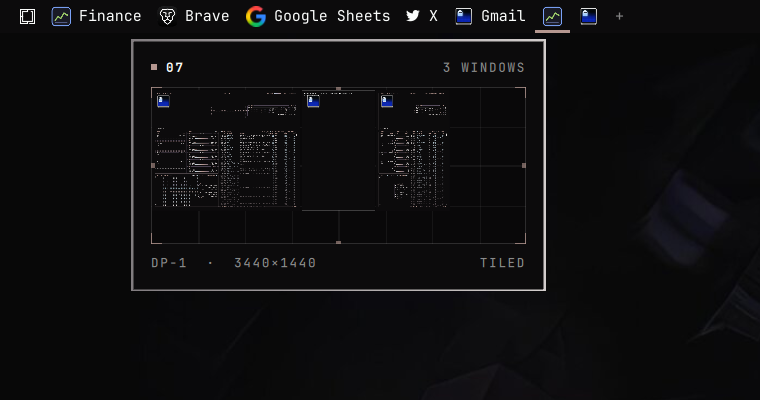
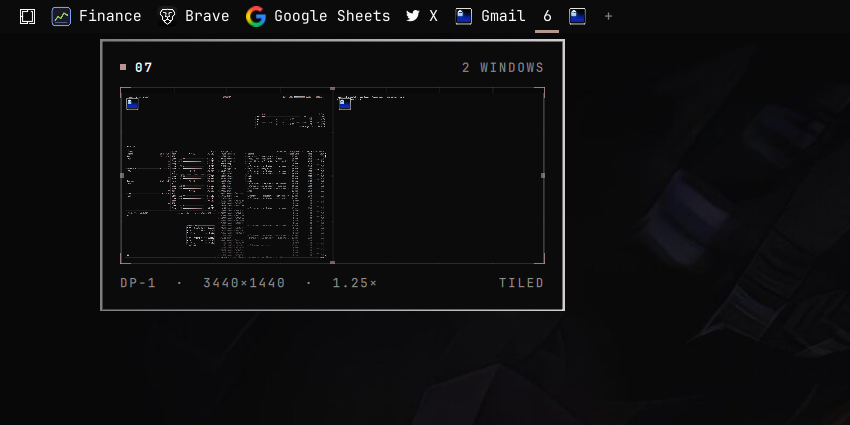
Release v3.2.1: stop startup shell crashes, fix preview geometry on scaled displays
3.2.0 read each toplevel's `workspace` object inside QML bindings. During
startup Quickshell parses `hyprctl clients` before `hyprctl workspaces` has
answered and hands toplevels placeholder workspaces; observing those from
bindings coincided with two segfaults inside Qt::endPropertyUpdateGroup.
The plugin now reads only the IPC snapshot and asks Quickshell for a
refresh, debounced to one request per burst of window events. Six
consecutive restarts ran clean afterwards.

Hyprland reports monitors in physical pixels but windows in logical pixels,
so at 1.25x every preview window was a fifth too small with a padded strip
along the right and bottom. Previews now scale against the logical size
(Logic.logicalMonitor, tested), handle rotated outputs, and note the scale.

diff --git a/Workspaces.qml b/Workspaces.qml
@@ -401,20 +401,24 @@ Panel {
   // owns multiple windows. Use Quickshell's complete toplevel registry and
   // filter by each toplevel's workspace instead.
   //
-  // A window opened after the shell started has a tracked `workspace`
-  // property straight away, but its `lastIpcObject` is an empty stub until
-  // Quickshell next runs `hyprctl clients`. Prefer the live property and only
-  // fall back to the IPC snapshot.
+  // Read only the IPC snapshot here. A window opened after the shell started
+  // has an empty `lastIpcObject` until Quickshell next runs `hyprctl
+  // clients`, which refreshToplevels() below requests on every window event.
+  //
+  // Do NOT read `toplevel.workspace` in bindings. During startup Quickshell
+  // parses `j/clients` before `j/workspaces` has answered and hands each
+  // toplevel a placeholder workspace ("requested before creation, early init
+  // with id -1"); bindings observing those objects were the common factor in
+  // two shell segfaults inside Qt::endPropertyUpdateGroup on 2026-09-16.
   function toplevelWorkspaceId(toplevel) {
-    if (toplevel.workspace && toplevel.workspace.id !== undefined) return Number(toplevel.workspace.id)
     var ipc = toplevel.lastIpcObject
     return ipc && ipc.workspace ? Number(ipc.workspace.id) : 0
   }
 
   function toplevelAddress(toplevel) {
-    if (toplevel.address) return String(toplevel.address)
     var ipc = toplevel.lastIpcObject
-    return ipc && ipc.address ? String(ipc.address) : ""
+    if (ipc && ipc.address) return String(ipc.address)
+    return toplevel.address ? String(toplevel.address) : ""
   }
 
   function toplevelsForWorkspace(id) {
@@ -426,11 +430,16 @@ Panel {
     return out
   }
 
-  // Geometry, class, and title only arrive with the IPC snapshot, so ask for
-  // one whenever a window appears, moves, or leaves. Cheap: one `hyprctl
-  // clients` per event, and Quickshell coalesces the result.
-  function refreshToplevels() {
-    if (typeof Hyprland.refreshToplevels === "function") Hyprland.refreshToplevels()
+  // Workspace, geometry, class, and title only arrive with the IPC snapshot,
+  // so ask for one whenever a window appears, moves, or leaves. Debounced so
+  // a burst of events costs one `hyprctl clients`, and so the request never
+  // runs synchronously inside the event that triggered it.
+  function refreshToplevels() { toplevelRefresh.restart() }
+
+  Timer {
+    id: toplevelRefresh
+    interval: 40
+    onTriggered: if (typeof Hyprland.refreshToplevels === "function") Hyprland.refreshToplevels()
   }
 
   function hasWindows(id) {
@@ -722,12 +731,18 @@ Panel {
   // The preview box is sized here, not derived from the Column's implicit
   // size: a Rectangle with an explicit `width` still has implicitWidth 0, so
   // the Column under-reported and the card clipped the miniature.
-  readonly property int previewBoxWidth: Style.space(300)
+  readonly property int previewBoxWidth: Style.space(340)
   readonly property int previewBoxHeight: {
-    var m = root.previewMonitor
+    var m = root.previewScreen
     var ratio = (m && m.width > 0) ? m.height / m.width : 0.625
     return Math.max(40, Math.round(root.previewBoxWidth * ratio))
   }
+
+  // The previewed monitor in logical pixels. Hyprland reports monitors in
+  // physical pixels but window positions in logical ones, so at a 1.25 scale
+  // the physical size would shrink every window by a fifth and leave a
+  // padded strip along the right and bottom of the well.
+  readonly property var previewScreen: Logic.logicalMonitor(root.previewMonitor)
 
   // Geometry of the monitor the previewed workspace lives on. An empty or
   // pinned workspace may not be assigned to one, so fall back to the focused

diff --git a/PreviewCard.qml b/PreviewCard.qml
@@ -86,10 +86,10 @@ PopupCard {
       border.color: host.line
       clip: true
 
-      readonly property real sx: host.previewMonitor && host.previewMonitor.width > 0
-        ? width / host.previewMonitor.width : 0
-      readonly property real originX: host.previewMonitor ? host.previewMonitor.x : 0
-      readonly property real originY: host.previewMonitor ? host.previewMonitor.y : 0
+      readonly property real sx: host.previewScreen && host.previewScreen.width > 0
+        ? width / host.previewScreen.width : 0
+      readonly property real originX: host.previewScreen ? host.previewScreen.x : 0
+      readonly property real originY: host.previewScreen ? host.previewScreen.y : 0
 
       // Instrument-console chrome: a quiet reference grid under the windows,
       // edge ticks at the midpoints, corner frames above everything.
@@ -157,6 +157,7 @@ PopupCard {
         anchors.verticalCenter: parent.verticalCenter
         text: host.previewMonitor
           ? String(host.previewMonitor.name || "") + "  ·  " + host.previewMonitor.width + "×" + host.previewMonitor.height
+            + (host.previewScreen && host.previewScreen.scale !== 1 ? "  ·  " + host.previewScreen.scale + "×" : "")
           : ""
       }
       Caption {

diff --git a/Logic.js b/Logic.js
@@ -275,8 +275,28 @@ function focusGeometry(items, focusedId, vertical, thickness) {
   return { x: 0, y: 0, width: 0, height: 0, visible: false }
 }
 
+// A monitor's geometry in the logical pixels Hyprland uses for window
+// positions. `hyprctl monitors` gives physical width/height plus scale and a
+// transform; odd transforms are 90/270 degree rotations.
+function logicalMonitor(monitor) {
+  if (!monitor || typeof monitor !== "object") return null
+  var scale = Number(monitor.scale)
+  if (!isFinite(scale) || scale <= 0) scale = 1
+  var w = Math.round((Number(monitor.width) || 0) / scale)
+  var h = Math.round((Number(monitor.height) || 0) / scale)
+  var rotated = (Math.floor(Number(monitor.transform) || 0) % 2) === 1
+  return {
+    x: Number(monitor.x) || 0,
+    y: Number(monitor.y) || 0,
+    width: rotated ? h : w,
+    height: rotated ? w : h,
+    scale: scale
+  }
+}
+
 if (typeof module !== "undefined") {
   module.exports = {
+    logicalMonitor: logicalMonitor,
     previewMode: previewMode,
     dominantClass: dominantClass,
     autoIconFor: autoIconFor,

diff --git a/tests/logic.test.js b/tests/logic.test.js
@@ -240,4 +240,15 @@ assert.deepEqual(Logic.focusGeometry(items, 1, true, 2), {x: 38, y: 0, width: 2,
 assert.equal(Logic.focusGeometry(items, 9, false, 2).visible, false)
 assert.equal(Logic.focusGeometry(null, 1, false, 2).visible, false)
 
+// Hyprland reports a monitor's size in physical pixels but window geometry in
+// logical pixels, so the preview scales against the logical size. Rotated
+// monitors swap the axes.
+assert.deepEqual(Logic.logicalMonitor({x: 0, y: 0, width: 3440, height: 1440, scale: 1.25, transform: 0}),
+  {x: 0, y: 0, width: 2752, height: 1152, scale: 1.25})
+assert.deepEqual(Logic.logicalMonitor({x: 3440, y: 0, width: 1920, height: 1080, scale: 1, transform: 1}),
+  {x: 3440, y: 0, width: 1080, height: 1920, scale: 1})
+assert.deepEqual(Logic.logicalMonitor({x: 0, y: 0, width: 2560, height: 1440, scale: 0, transform: 3}),
+  {x: 0, y: 0, width: 1440, height: 2560, scale: 1})
+assert.equal(Logic.logicalMonitor(null), null)
+
 console.log("workspace add/remove logic tests passed")

diff --git a/MAINTAINER_NOTES.md b/MAINTAINER_NOTES.md
@@ -5,10 +5,10 @@ easy to lose between sessions; user-facing changes belong in `CHANGELOG.md`.
 
 ## Current state
 
-- Manifest version prepared in this tree: **3.2.0**.
+- Manifest version prepared in this tree: **3.2.1**.
 - Development branch: `main`.
-- 3.1.0, 3.1.1, and 3.2.0 were developed and verified against **Omarchy
-  4.0.3-1** on September 16, 2026. 3.0.1 was hardened against 4.0.2-1 on September 1, 2026.
+- 3.1.0 through 3.2.1 were developed and verified against **Omarchy 4.0.3-1**
+  on September 16, 2026. 3.0.1 was hardened against 4.0.2-1 on September 1, 2026.
 - The `v3.0.1` tag was created retroactively at the release commit when 3.1.0
   shipped; earlier the changelog entry existed without a tag.
 
@@ -101,17 +101,30 @@ occupancy, app matching, or preview capture to `workspace.toplevels.values`;
 that collection was observed to lag or omit sibling surfaces when one
 application owns multiple windows.
 
-Filter by `toplevelWorkspaceId()`, which prefers the toplevel's tracked
-`workspace` property and only falls back to `lastIpcObject.workspace.id`.
-Verified on 2026-09-16: a window opened after the shell starts has a correct
-`workspace` immediately, but its `lastIpcObject` is an empty stub (no
-address, workspace, class, or geometry) until Quickshell next runs `hyprctl
-clients`. Before 3.2.0 such windows were invisible to the plugin until a
-restart. `refreshToplevels()` is requested on `openwindow`, `movewindow(v2)`,
-`closewindow`, `changefloatingmode`, and `fullscreen` raw events and before a
-preview, which is what fills in class and geometry for auto icons and tiles.
-Reproduce with `setsid -f ghostty --title=demo -e btop` on a fresh workspace
-and check the editor row count.
+Filter by `toplevelWorkspaceId()`, which reads only `lastIpcObject`.
+Verified on 2026-09-16: a window opened after the shell starts has an empty
+`lastIpcObject` (no address, workspace, class, or geometry) until Quickshell
+next runs `hyprctl clients`. Before 3.2.0 such windows were invisible to the
+plugin until a restart. `refreshToplevels()` (a 40 ms debounced Timer around
+`Hyprland.refreshToplevels()`) is requested on `openwindow`,
+`movewindow(v2)`, `closewindow`, `changefloatingmode`, and `fullscreen` raw
+events and before a preview; that is what fills in workspace, class, and
+geometry for counts, auto icons, and tiles. Reproduce with
+`setsid -f ghostty --title=demo -e btop` on a fresh workspace and check the
+editor row count.
+
+**Never read `toplevel.workspace` (the object) inside bindings.** 3.2.0 did,
+and the shell segfaulted twice at startup inside
+`Qt::endPropertyUpdateGroup` while Quickshell re-parsed `j/clients` before
+`j/workspaces` had answered ("Workspace N requested before creation,
+performing early init with id -1" in the crash log). Cores: `coredumpctl list
+quickshell`, 2026-09-16 13:26 and 14:19. Reading `toplevel.address` (a
+string) is fine. 3.2.1 removed the object read; six consecutive restarts then
+ran clean. This is correlation plus a plausible mechanism, not a symbolized
+proof: Arch ships no Quickshell debug symbols.
+
+Preview geometry must use `Logic.logicalMonitor(previewMonitor)`: Hyprland's
+monitor width/height are physical pixels, window `at`/`size` are logical.
 
 ## Verification status
 

diff --git a/CHANGELOG.md b/CHANGELOG.md
@@ -1,5 +1,22 @@
 # Changelog
 
+## 3.2.1
+
+- **Fixed shell crashes at startup introduced in 3.2.0.** The 3.2.0 fix for
+  windows opened after the shell started read each toplevel's `workspace`
+  object inside QML bindings. During startup Quickshell parses `hyprctl
+  clients` before `hyprctl workspaces` has answered and hands toplevels
+  placeholder workspaces; observing those from bindings coincided with two
+  segfaults inside Qt's property-update machinery. The plugin now reads only
+  the IPC snapshot and asks Quickshell for a refresh, debounced to one request
+  per burst of window events, so new windows still appear within a few tens of
+  milliseconds. Six consecutive shell restarts ran clean after the change.
+- **Fixed preview geometry on scaled displays.** Hyprland reports monitors in
+  physical pixels but windows in logical pixels, so at 1.25× every window was
+  drawn a fifth too small with a padded strip along the right and bottom. The
+  preview now scales against the logical size, handles rotated outputs, is a
+  little wider, and its footer shows the scale.
+
 ## 3.2.0
 
 **Reliable previews, auto icons, and more of the station-board character.**
